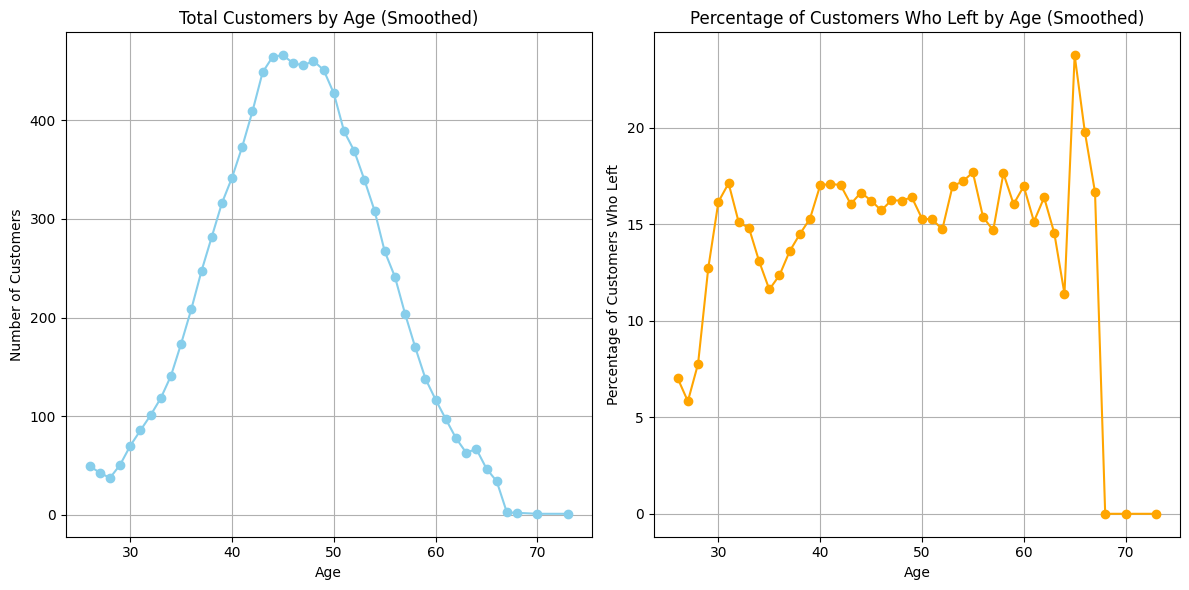
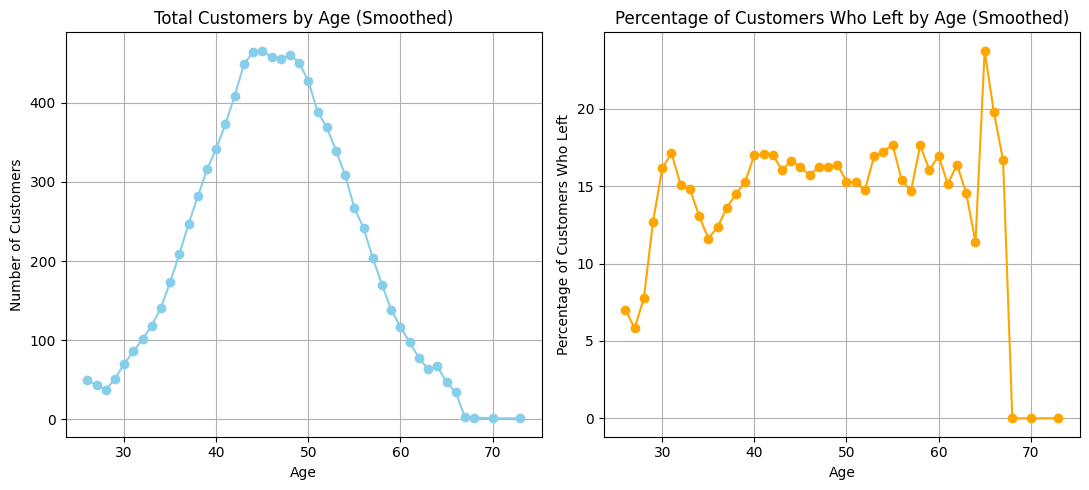
completed dashboard

diff --git a/templates/dashboard.html b/templates/dashboard.html
@@ -34,6 +34,12 @@
             <div class="chart6">
                 <img src="{{ url_for('static', filename='images/gender_attrition.png') }}" alt="Churn by Income">
             </div>
+            <div class="chart7">
+                <img src="{{ url_for('static', filename='images/transactions_plot.png') }}" alt="Churn by Income">
+            </div>
+            <div class="chart8">
+                <img src="{{ url_for('static', filename='images/age_plot.png') }}" alt="Churn by Income">
+            </div>
         </div>
     </div>
 </body>

diff --git a/utils/dashboard_utils.py b/utils/dashboard_utils.py
@@ -90,7 +90,7 @@ def gender_attrition(df):
     labels = ['Stayed', 'Left']
 
     # Plot 1: Proportion of Male customers who stayed vs. left
-    plt.figure(figsize=(10, 3))
+    plt.figure(figsize=(10, 4))
 
     plt.subplot(1, 3, 1)
     male_proportions = gender_attrition.loc[0] / gender_attrition.loc[0].sum()
@@ -209,7 +209,7 @@ def age_plot(df):
     age_totals_smoothed = moving_average(age_totals, window_size=3)
     age_left_percentage_smoothed = moving_average(age_left_percentage, window_size=3)
 
-    plt.figure(figsize=(12, 6))
+    plt.figure(figsize=(11, 5))
 
     # Plot 1: Smoothed total number of customers by age
     plt.subplot(1, 2, 1)
@@ -239,7 +239,7 @@ def transactions_plot(df):
     churned_customers = df[df['Attrition_Flag'] == 1]
 
     # Create the scatter plot
-    plt.figure(figsize=(10, 6))
+    plt.figure(figsize=(11, 5))
 
     # Scatter plot for existing customers (Attrition_Flag == 0)
     plt.scatter(existing_customers['Total_Trans_Ct'], existing_customers['Total_Trans_Amt'],
@@ -274,7 +274,7 @@ def credit_plot(df):
     ).reset_index(name='Churn_Percentage')
 
     # Plotting
-    plt.figure(figsize=(11, 5))
+    plt.figure(figsize=(11, 4))
     plt.bar(churned_percentage['Revolving_Balance_Group'], churned_percentage['Churn_Percentage'], color='skyblue')
     plt.xlabel('Total Revolving Balance')
     plt.ylabel('Percentage of Churned Customers')
